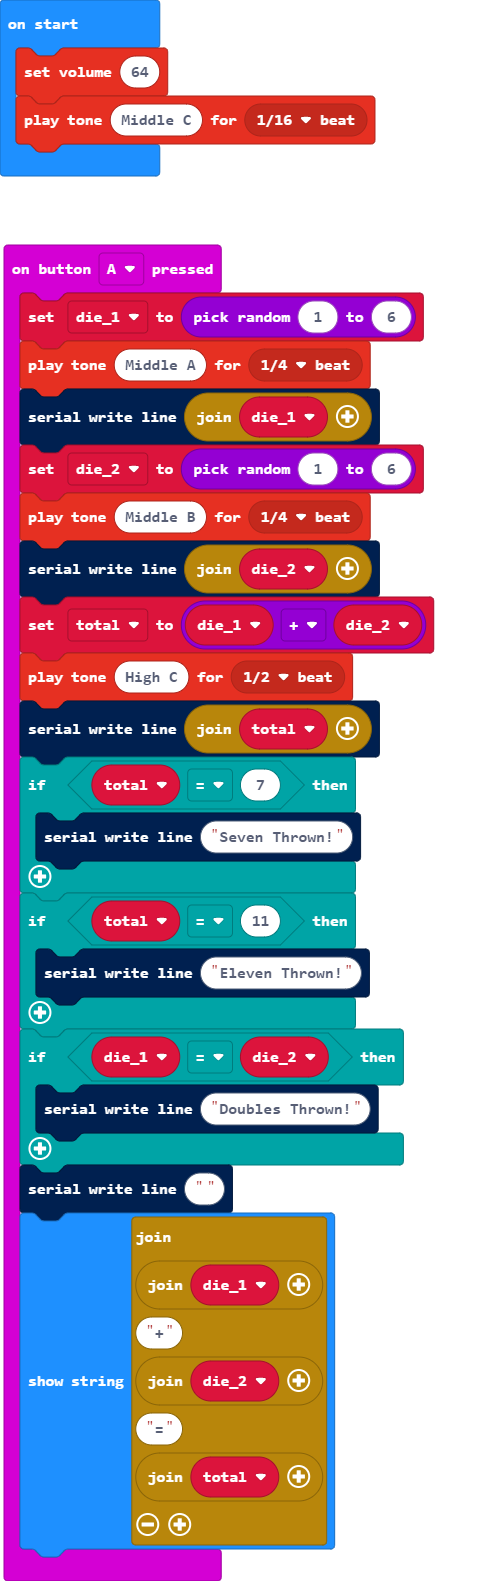
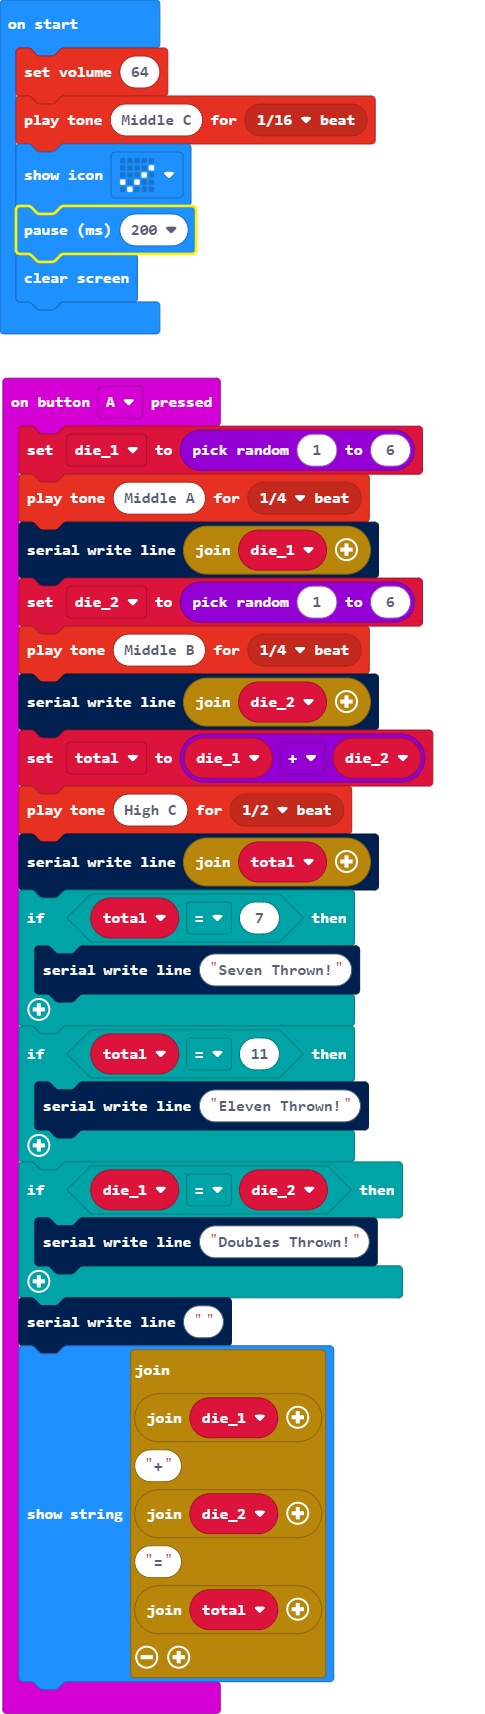
Update main.blocks, main.ts

diff --git a/main.ts b/main.ts
@@ -25,3 +25,6 @@ let die_2 = 0
 let die_1 = 0
 music.setVolume(64)
 music.playTone(262, music.beat(BeatFraction.Sixteenth))
+basic.showIcon(IconNames.Yes)
+basic.pause(200)
+basic.clearScreen()
